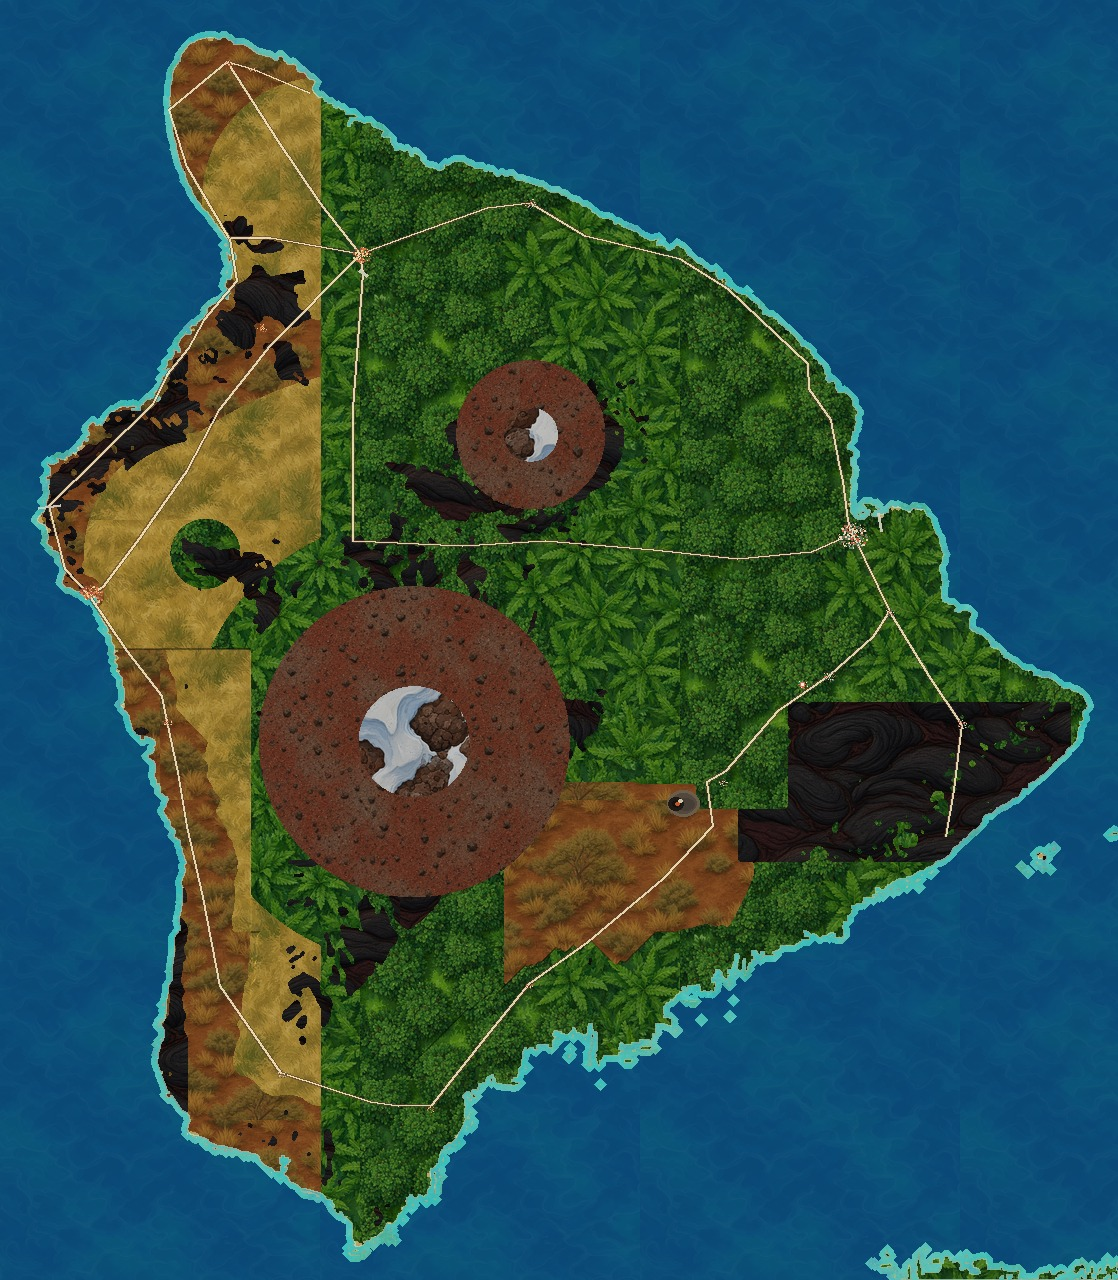
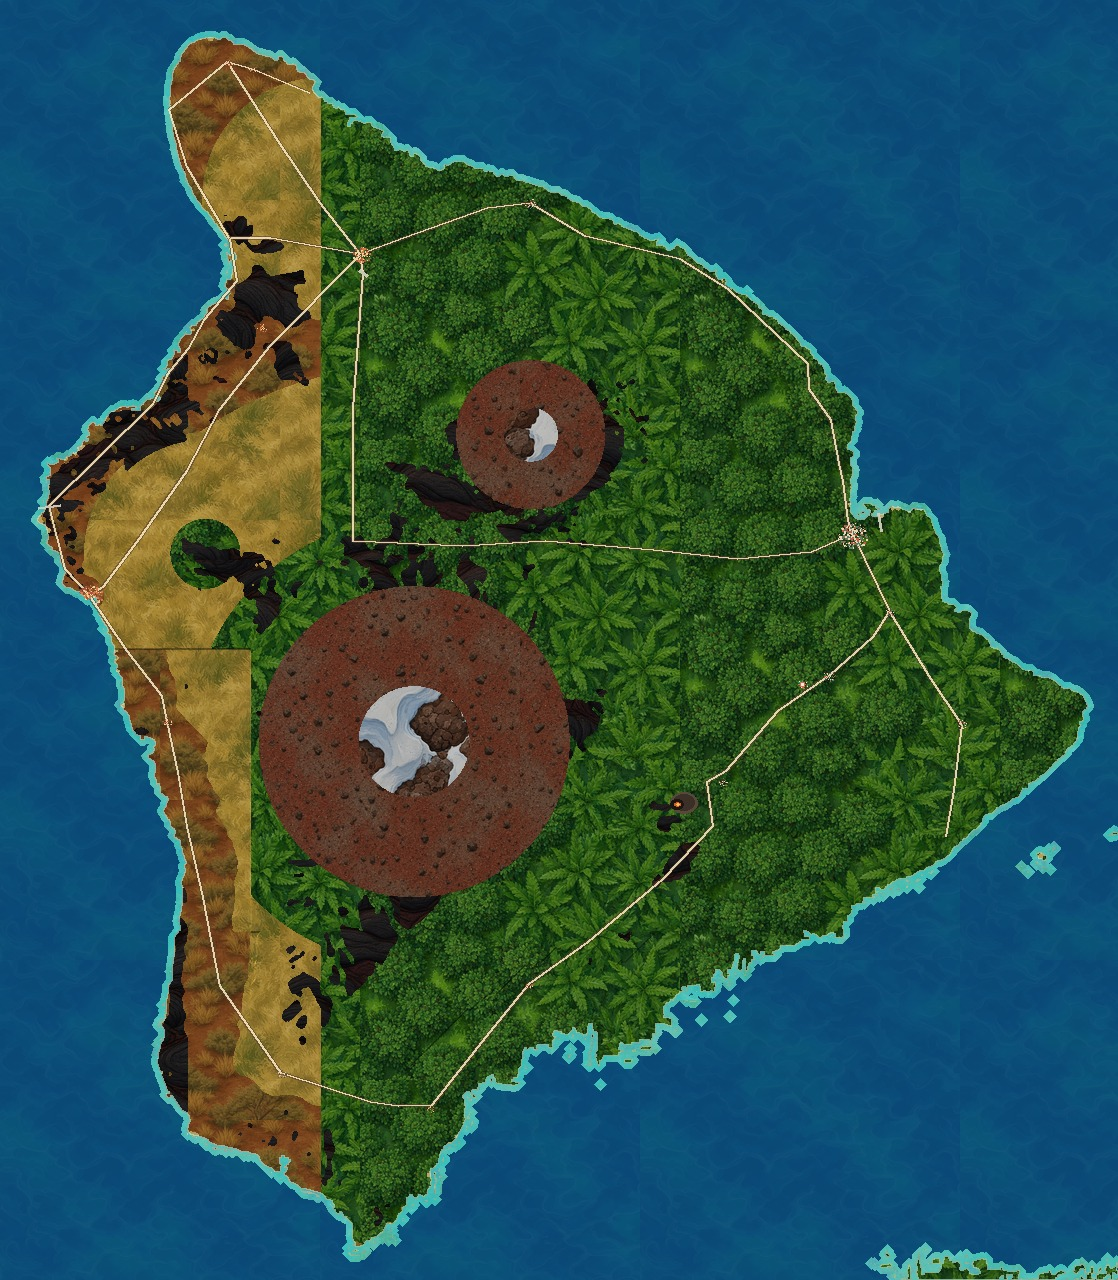
Put the map back: stop the biome mess, show Kīlauea, leave Ka Lae alone
The Kaʻū-desert paint turned the island brown and hid the caldera.
South Point is the heightmap again — no beach-drop sculpt or junk on the shelf.

Changed region(s): [[0.4258, 0.5312, 0.9732, 0.7812]]

diff --git a/src/components/flight/KauCoast.tsx b/src/components/flight/KauCoast.tsx
@@ -62,26 +62,15 @@ function Punaluu() {
 /** Jump gear on the real lip — no separate palisade in the ocean. */
 function KaLae() {
   const p = snapToLand(18.9119, -155.6864);
-  const drop = Math.max(0.55, p.y);
+  if (p.y < 0.18) return null;
+  const drop = Math.max(0.4, p.y);
   return (
     <group position={[p.x, p.y, p.z]}>
-      <mesh position={[0, -Math.min(p.y, 0.55) * 0.7, 0.5]} scale={[1.1, 0.8, 1]}>
-        <sphereGeometry args={[0.2, 10, 7]} />
-        <meshStandardMaterial color="#08080a" roughness={1} />
-      </mesh>
       <GreenHoist y={0} />
-      <mesh position={[0.28, 0.1, 0.1]}>
-        <boxGeometry args={[0.16, 0.14, 0.12]} />
-        <meshStandardMaterial color="#e25a28" roughness={0.55} />
-      </mesh>
       <Ladder x={-0.22} top={0} z={0.38} len={drop * 0.55} />
       <Ladder x={0.1} top={0} z={0.42} len={drop * 0.9} />
       <Truck x={-0.55} z={-0.28} y={0} />
       <Truck x={-1.05} z={-0.65} y={0} />
-      <Truck x={0.7} z={-0.5} y={0} />
-      <Person x={-0.28} z={-0.05} y={0} />
-      <Person x={0.06} z={0.03} y={0} />
-      <Person x={0.28} z={-0.08} y={0} />
     </group>
   );
 }
@@ -140,17 +129,6 @@ function Truck({ x, z, y }: { x: number; z: number; y: number }) {
       <mesh position={[0.07, 0.15, 0]}>
         <boxGeometry args={[0.14, 0.1, 0.15]} />
         <meshStandardMaterial color="#4a5056" roughness={0.5} />
-      </mesh>
-    </group>
-  );
-}
-
-function Person({ x, z, y }: { x: number; z: number; y: number }) {
-  return (
-    <group position={[x, y, z]}>
-      <mesh position={[0, 0.1, 0]}>
-        <capsuleGeometry args={[0.032, 0.09, 3, 6]} />
-        <meshStandardMaterial color="#d8c4a8" roughness={0.8} />
       </mesh>
     </group>
   );

diff --git a/src/lib/hawaii/coast.ts b/src/lib/hawaii/coast.ts
@@ -46,17 +46,7 @@ export function kaLaeShoreLat(lon: number) {
   return 18.926;
 }
 
-/**
- * Keep the heightmap cape. Only drop thin beaches so the existing land
- * becomes a cliff all the way around to Papakōlea — no raft in the sea.
- */
-export function kauCliffY(lat: number, lon: number, y0: number) {
-  if (lon < -155.75 || lon > -155.61 || lat > 19.03 || lat < 18.88) return y0;
-  const { x, z } = latLonToWorld(lat, lon);
-  const south = terrainY(x, z + 2.2);
-  const north = terrainY(x, z - 2.2);
-  if (y0 < 0.045 && north < 0.1) return y0;
-  if (y0 < 0.18 && south < 0.1 && north > 0.16) return -0.4;
+export function kauCliffY(_lat: number, _lon: number, y0: number) {
   return y0;
 }
 

diff --git a/src/components/flight/MiniMap.tsx b/src/components/flight/MiniMap.tsx
@@ -21,7 +21,7 @@ export function MiniMap() {
       className="absolute right-3 top-24 z-30 hidden overflow-hidden rounded-lg border border-cream/30 shadow-lg sm:block"
       style={{ width: 132, height: 152 }}
     >
-      <img src="/maps/hawaii-cartoon.jpg?v=atlas3" alt="" className="size-full object-cover" />
+      <img src="/maps/hawaii-cartoon.jpg?v=atlas7" alt="" className="size-full object-cover" />
       <span
         className="absolute size-2.5 -translate-x-1/2 -translate-y-1/2 rounded-full bg-coral ring-2 ring-cream"
         style={{ left: `${left}%`, top: `${top}%` }}

diff --git a/src/components/world/MapView.tsx b/src/components/world/MapView.tsx
@@ -313,7 +313,7 @@ export function MapView() {
         }}
       >
         <img
-          src={basemap === "usgs" ? "/maps/hawaii-usgs.jpg?v=landsat" : "/maps/hawaii-cartoon.jpg?v=atlas3"}
+          src={basemap === "usgs" ? "/maps/hawaii-usgs.jpg?v=landsat" : "/maps/hawaii-cartoon.jpg?v=atlas7"}
           alt={
             basemap === "usgs"
               ? "NASA Landsat photograph of Hawaiʻi Island"

diff --git a/src/components/flight/Island.tsx b/src/components/flight/Island.tsx
@@ -10,7 +10,7 @@ export function Island() {
   useEffect(() => {
     const loader = new TextureLoader();
     const t = loader.load(
-      "/maps/hawaii-cartoon.jpg?v=atlas6",
+      "/maps/hawaii-cartoon.jpg?v=atlas7",
       (tex) => {
         tex.colorSpace = SRGBColorSpace;
         tex.anisotropy = 1;

diff --git a/scripts/paint-cartoon-atlas.py b/scripts/paint-cartoon-atlas.py
@@ -195,17 +195,12 @@ def classify(
     biome[grass] = GRASS
     biome[land & ~west & (meters < 2200)] = RAINFOREST
     biome[lava] = LAVA
-    # Kaʻū desert is brown. Caldera floor is painted in kilauea(). Forest N/E of the rim.
-    kau = land & (lat > 19.20) & (lat < 19.43) & (lon > -155.50) & (lon < -155.20) & (meters > 500)
-    rift = land & (lat > 19.34) & (lat < 19.52) & (lon > -155.22) & (lon < -154.82) & (luma < 100) & (g < 90)
-    biome[kau] = SCRUB
-    biome[rift] = LAVA
-    np_forest = land & (lat > 19.40) & (lat < 19.52) & (lon > -155.27) & (lon < -155.16)
-    np_north = land & (lat > 19.428) & (lat < 19.50) & (lon > -155.34) & (lon < -155.18)
-    biome[np_forest | np_north] = RAINFOREST
     biome[alpine] = ALPINE
     biome[snow] = SNOW
     biome[beach] = BEACH
+    # South Point is a grassy cliff, not a beige beach triangle.
+    cape = land & (lat < 19.00) & (lon > -155.73) & (lon < -155.61) & (biome == BEACH)
+    biome[cape] = GRASS
     biome[ocean] = np.where(offshore[ocean] <= 6, REEF, OCEAN)
 
     cloud_west = land & cloudy & (meters < 2800) & west
@@ -311,17 +306,15 @@ def foam(img: Image.Image, ocean: np.ndarray) -> None:
 
 
 def kilauea(img: Image.Image) -> None:
-    """Irregular nested caldera like the map: grey floor, black pit west, sulfur."""
+    """Nested caldera on the rainforest shield — dark enough to see from the air."""
     x, y = project(19.4069, -155.2834)
     d = ImageDraw.Draw(img)
-    d.ellipse((x - 17, y - 12, x + 15, y + 14), fill=(108, 92, 74))
-    d.ellipse((x - 14, y - 9, x + 12, y + 11), fill=(82, 72, 62))
-    d.ellipse((x - 8, y - 4, x + 10, y + 8), fill=(70, 62, 54))
+    d.ellipse((x - 14, y - 10, x + 13, y + 11), fill=(88, 72, 58))
+    d.ellipse((x - 11, y - 8, x + 10, y + 8), fill=(58, 48, 40))
     px, py = project(19.405, -155.291)
-    d.ellipse((px - 9, py - 7, px + 6, py + 6), fill=(32, 26, 22))
-    d.ellipse((px - 5, py - 4, px + 3, py + 3), fill=(22, 18, 16))
-    d.ellipse((px - 2, py - 1.5, px + 2, py + 1.5), fill=(196, 88, 36))
-    d.ellipse((px + 1, py - 5, px + 5, py - 2), fill=(210, 198, 168))
+    d.ellipse((px - 7, py - 5, px + 6, py + 5), fill=(28, 22, 18))
+    d.ellipse((px - 3, py - 2, px + 3, py + 2), fill=(210, 92, 36))
+    d.ellipse((px - 1.4, py - 1, px + 1.4, py + 1), fill=(255, 196, 80))
 
 
 def main() -> None:
